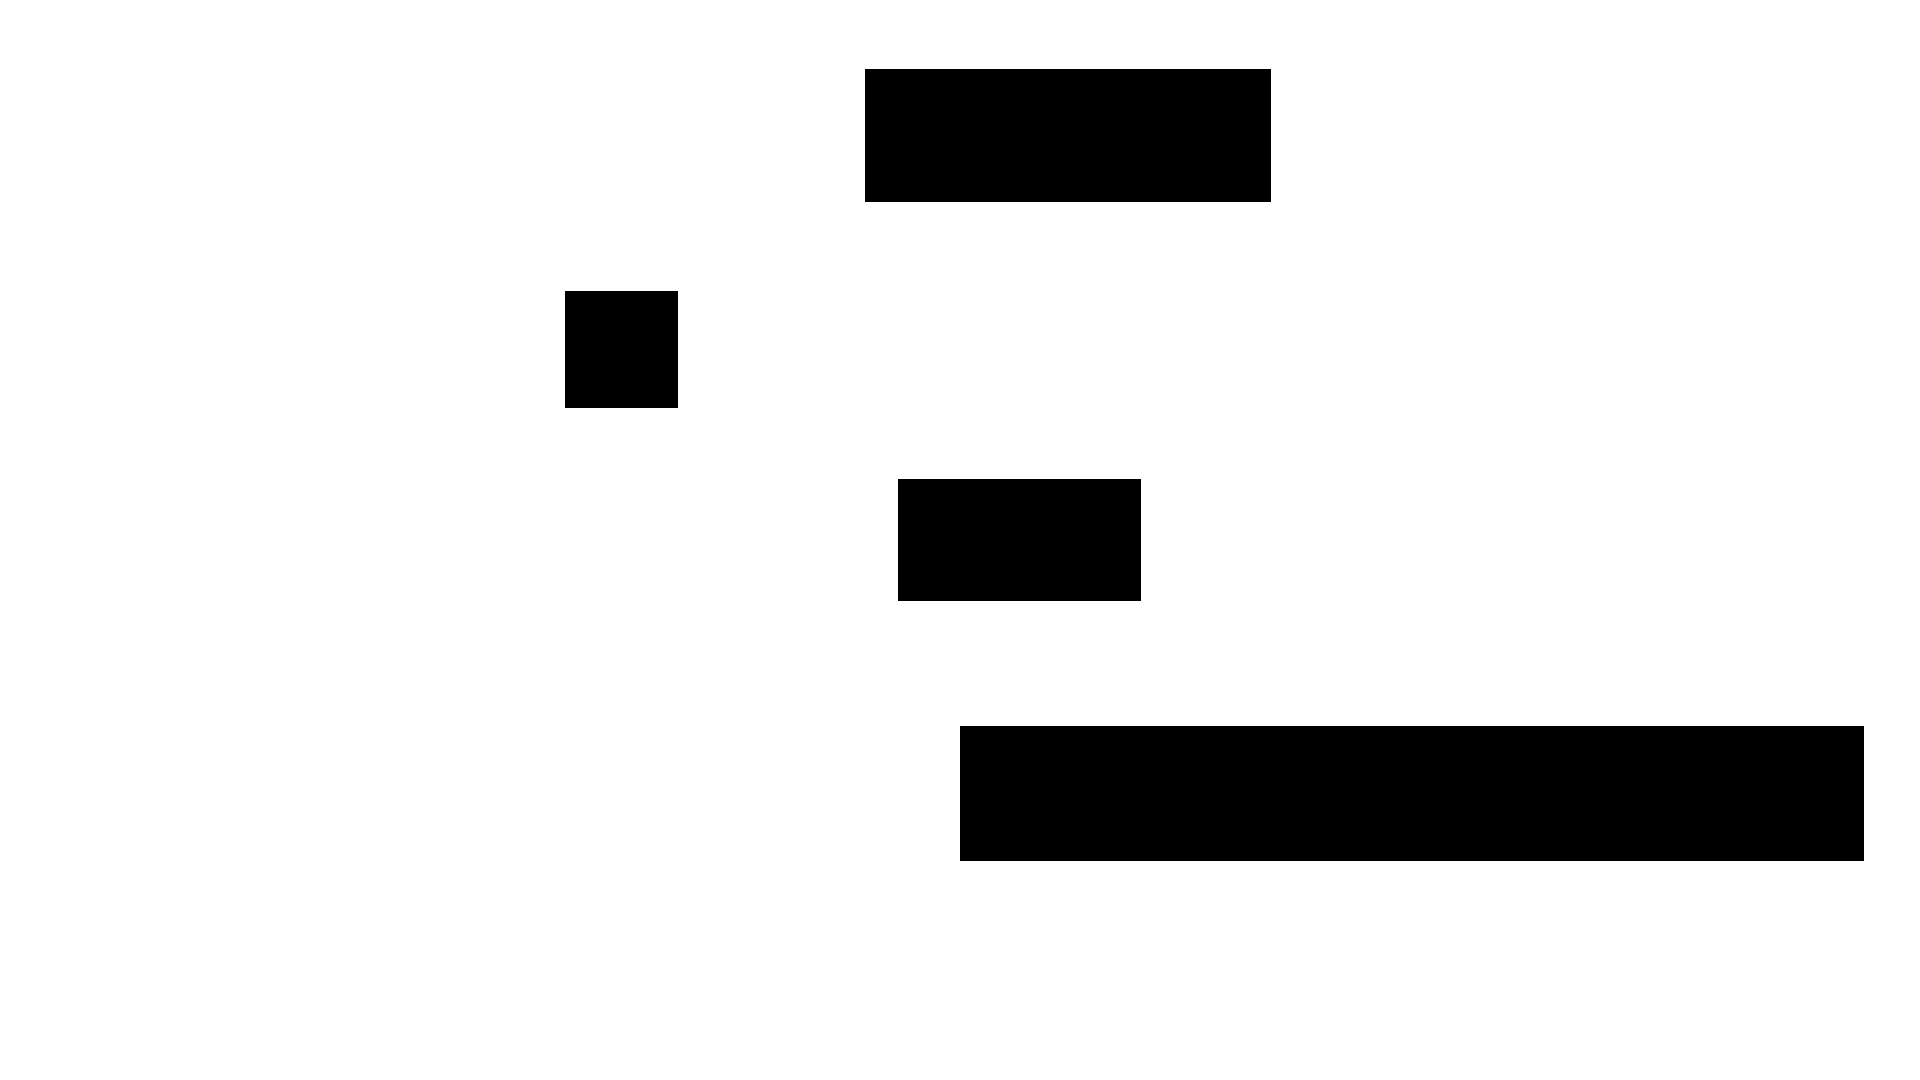
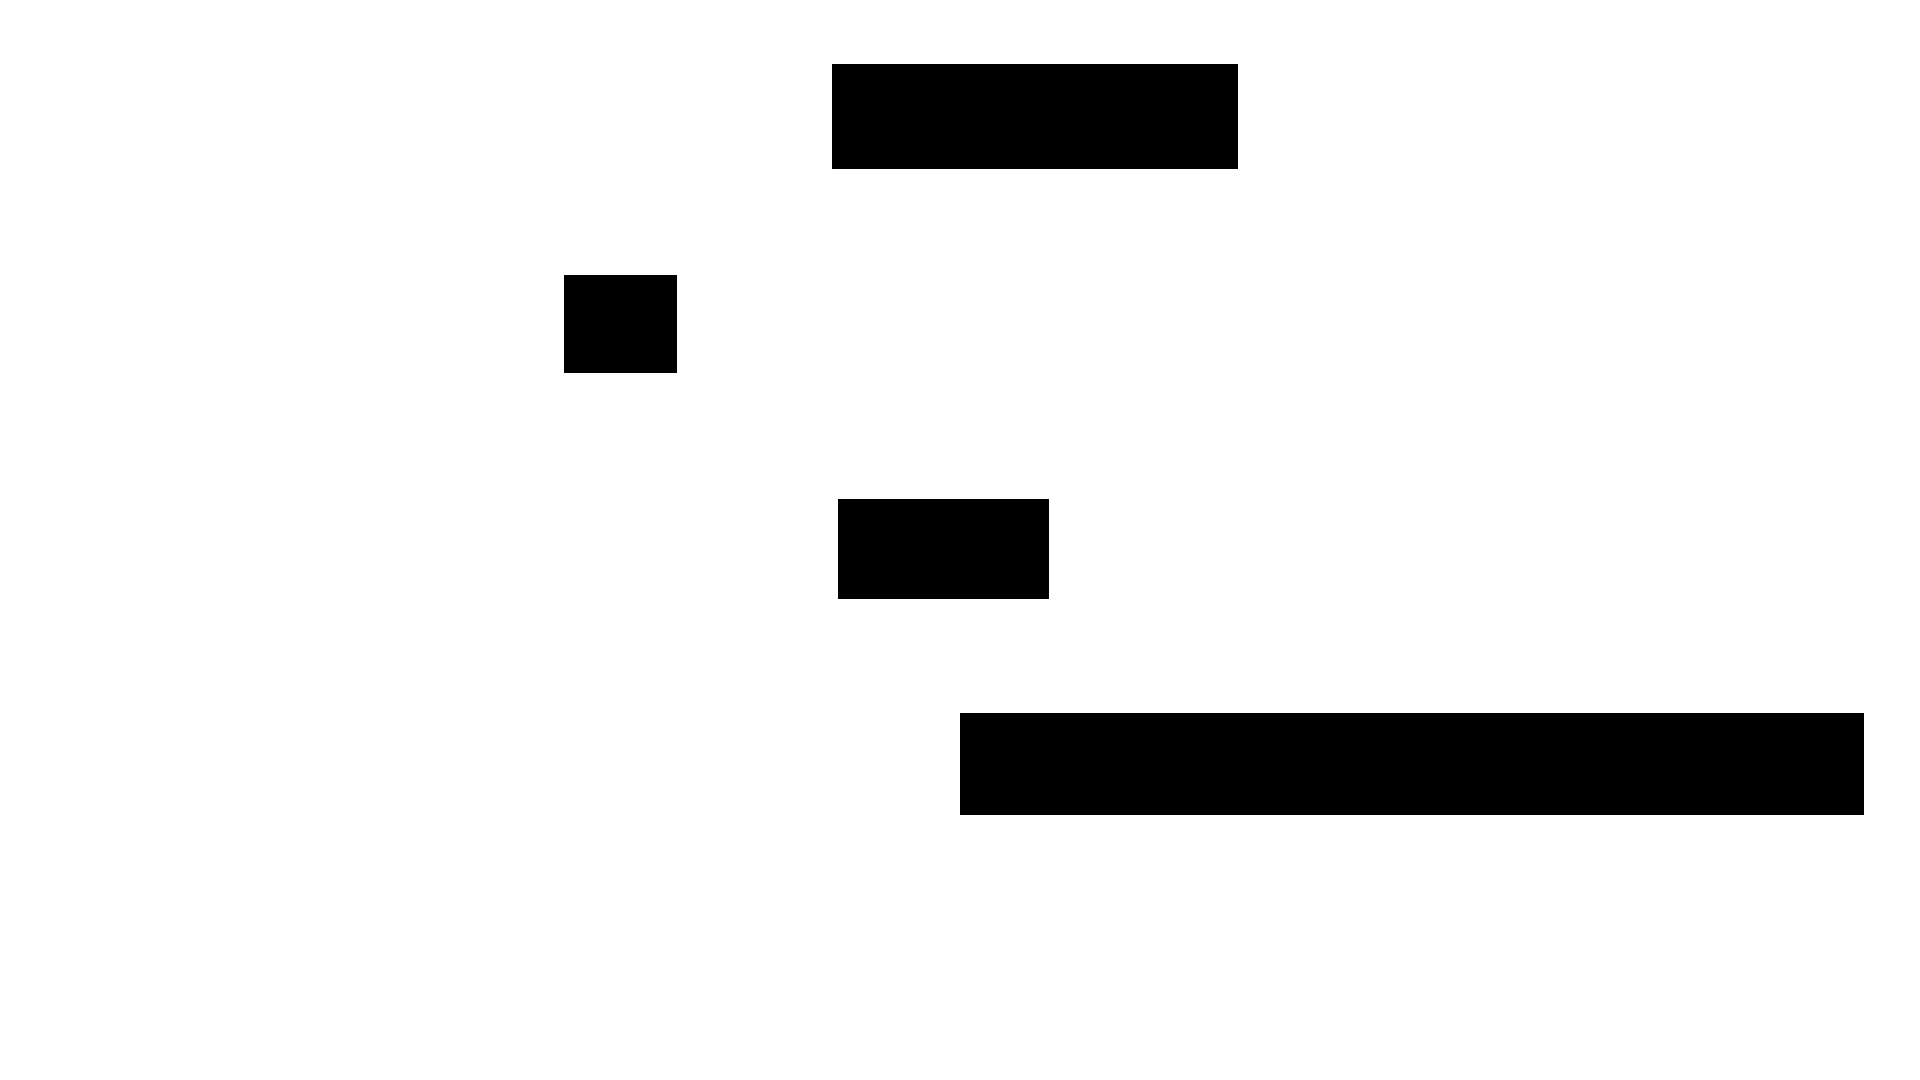
mobile

diff --git a/index.html b/index.html
@@ -8,7 +8,12 @@
 </head>
 <body>
   <div class="main">
-    <p class="text">We're here&nbsp;&nbsp;&nbsp;&nbsp;&nbsp;&nbsp;&nbsp;&nbsp;&nbsp;&nbsp;&nbsp;to make healthy&nbsp;&nbsp; living effortless, so you can &nbsp;&nbsp;&nbsp;&nbsp; live longer and happier</p>
+    <p class="text">
+      We're here &nbsp;&nbsp;&nbsp;&nbsp;&nbsp;&nbsp;&nbsp;&nbsp;&nbsp; 
+      to <span class="none">&nbsp;&nbsp;&nbsp;&nbsp;&nbsp;&nbsp;&nbsp;&nbsp;&nbsp;&nbsp;&nbsp;&nbsp;&nbsp;&nbsp;&nbsp;&nbsp;</span> make <span class="none">&nbsp;&nbsp;&nbsp;&nbsp;&nbsp;&nbsp;&nbsp;</span>healthy <span class="block">&nbsp;</span> living effortless, 
+      so you can &nbsp;&nbsp;&nbsp;&nbsp; live longer 
+      and happier
+    </p>
     <video class="video" src="video/video.mp4" width="1920" autoplay loop muted></video>
   </div>
 </body>

diff --git a/css/style.css b/css/style.css
@@ -50,3 +50,25 @@ body {
   mask-size: contain;
   mask-repeat: no-repeat;
 }
+
+.none {
+  display: none;
+}
+
+@media (max-width: 576px) {
+  .text {
+    font-size: 11vw;
+  }
+
+  .none {
+    display: inline;
+  }
+
+  .block {
+    display: none;
+  }
+
+  .video {
+    mask-image: url("../img/mask-mobile.png");
+  }
+}
